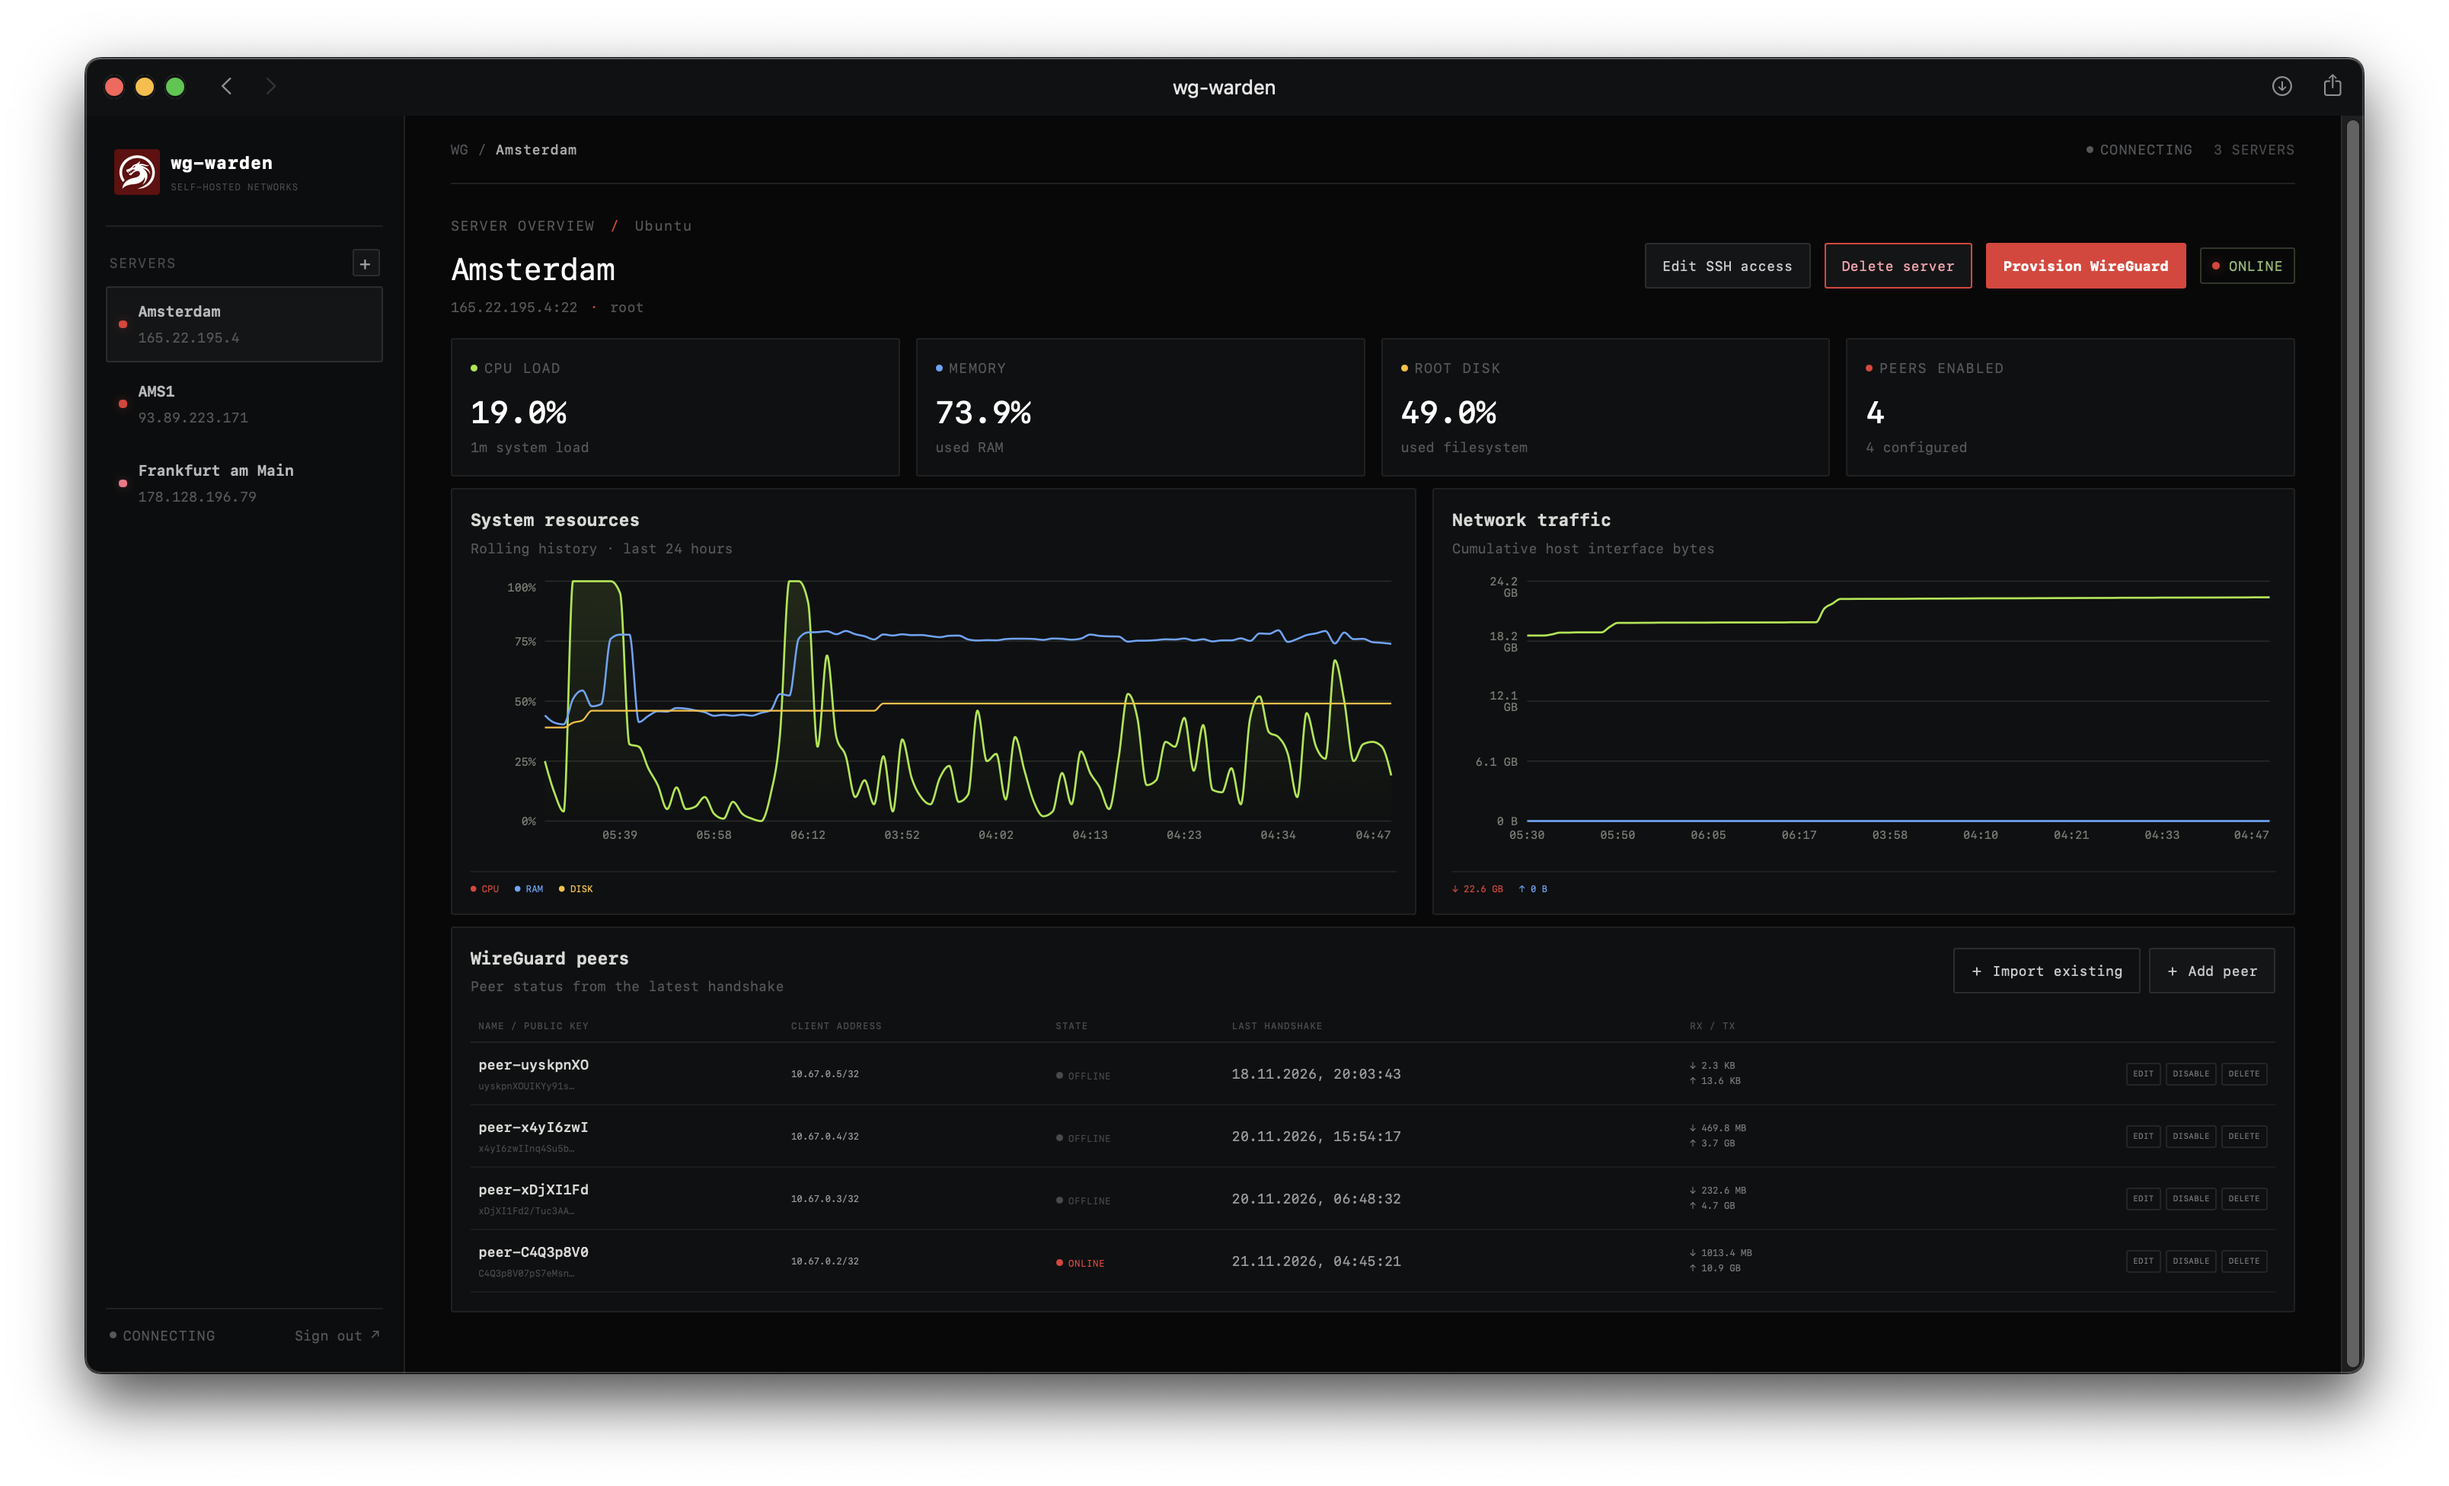
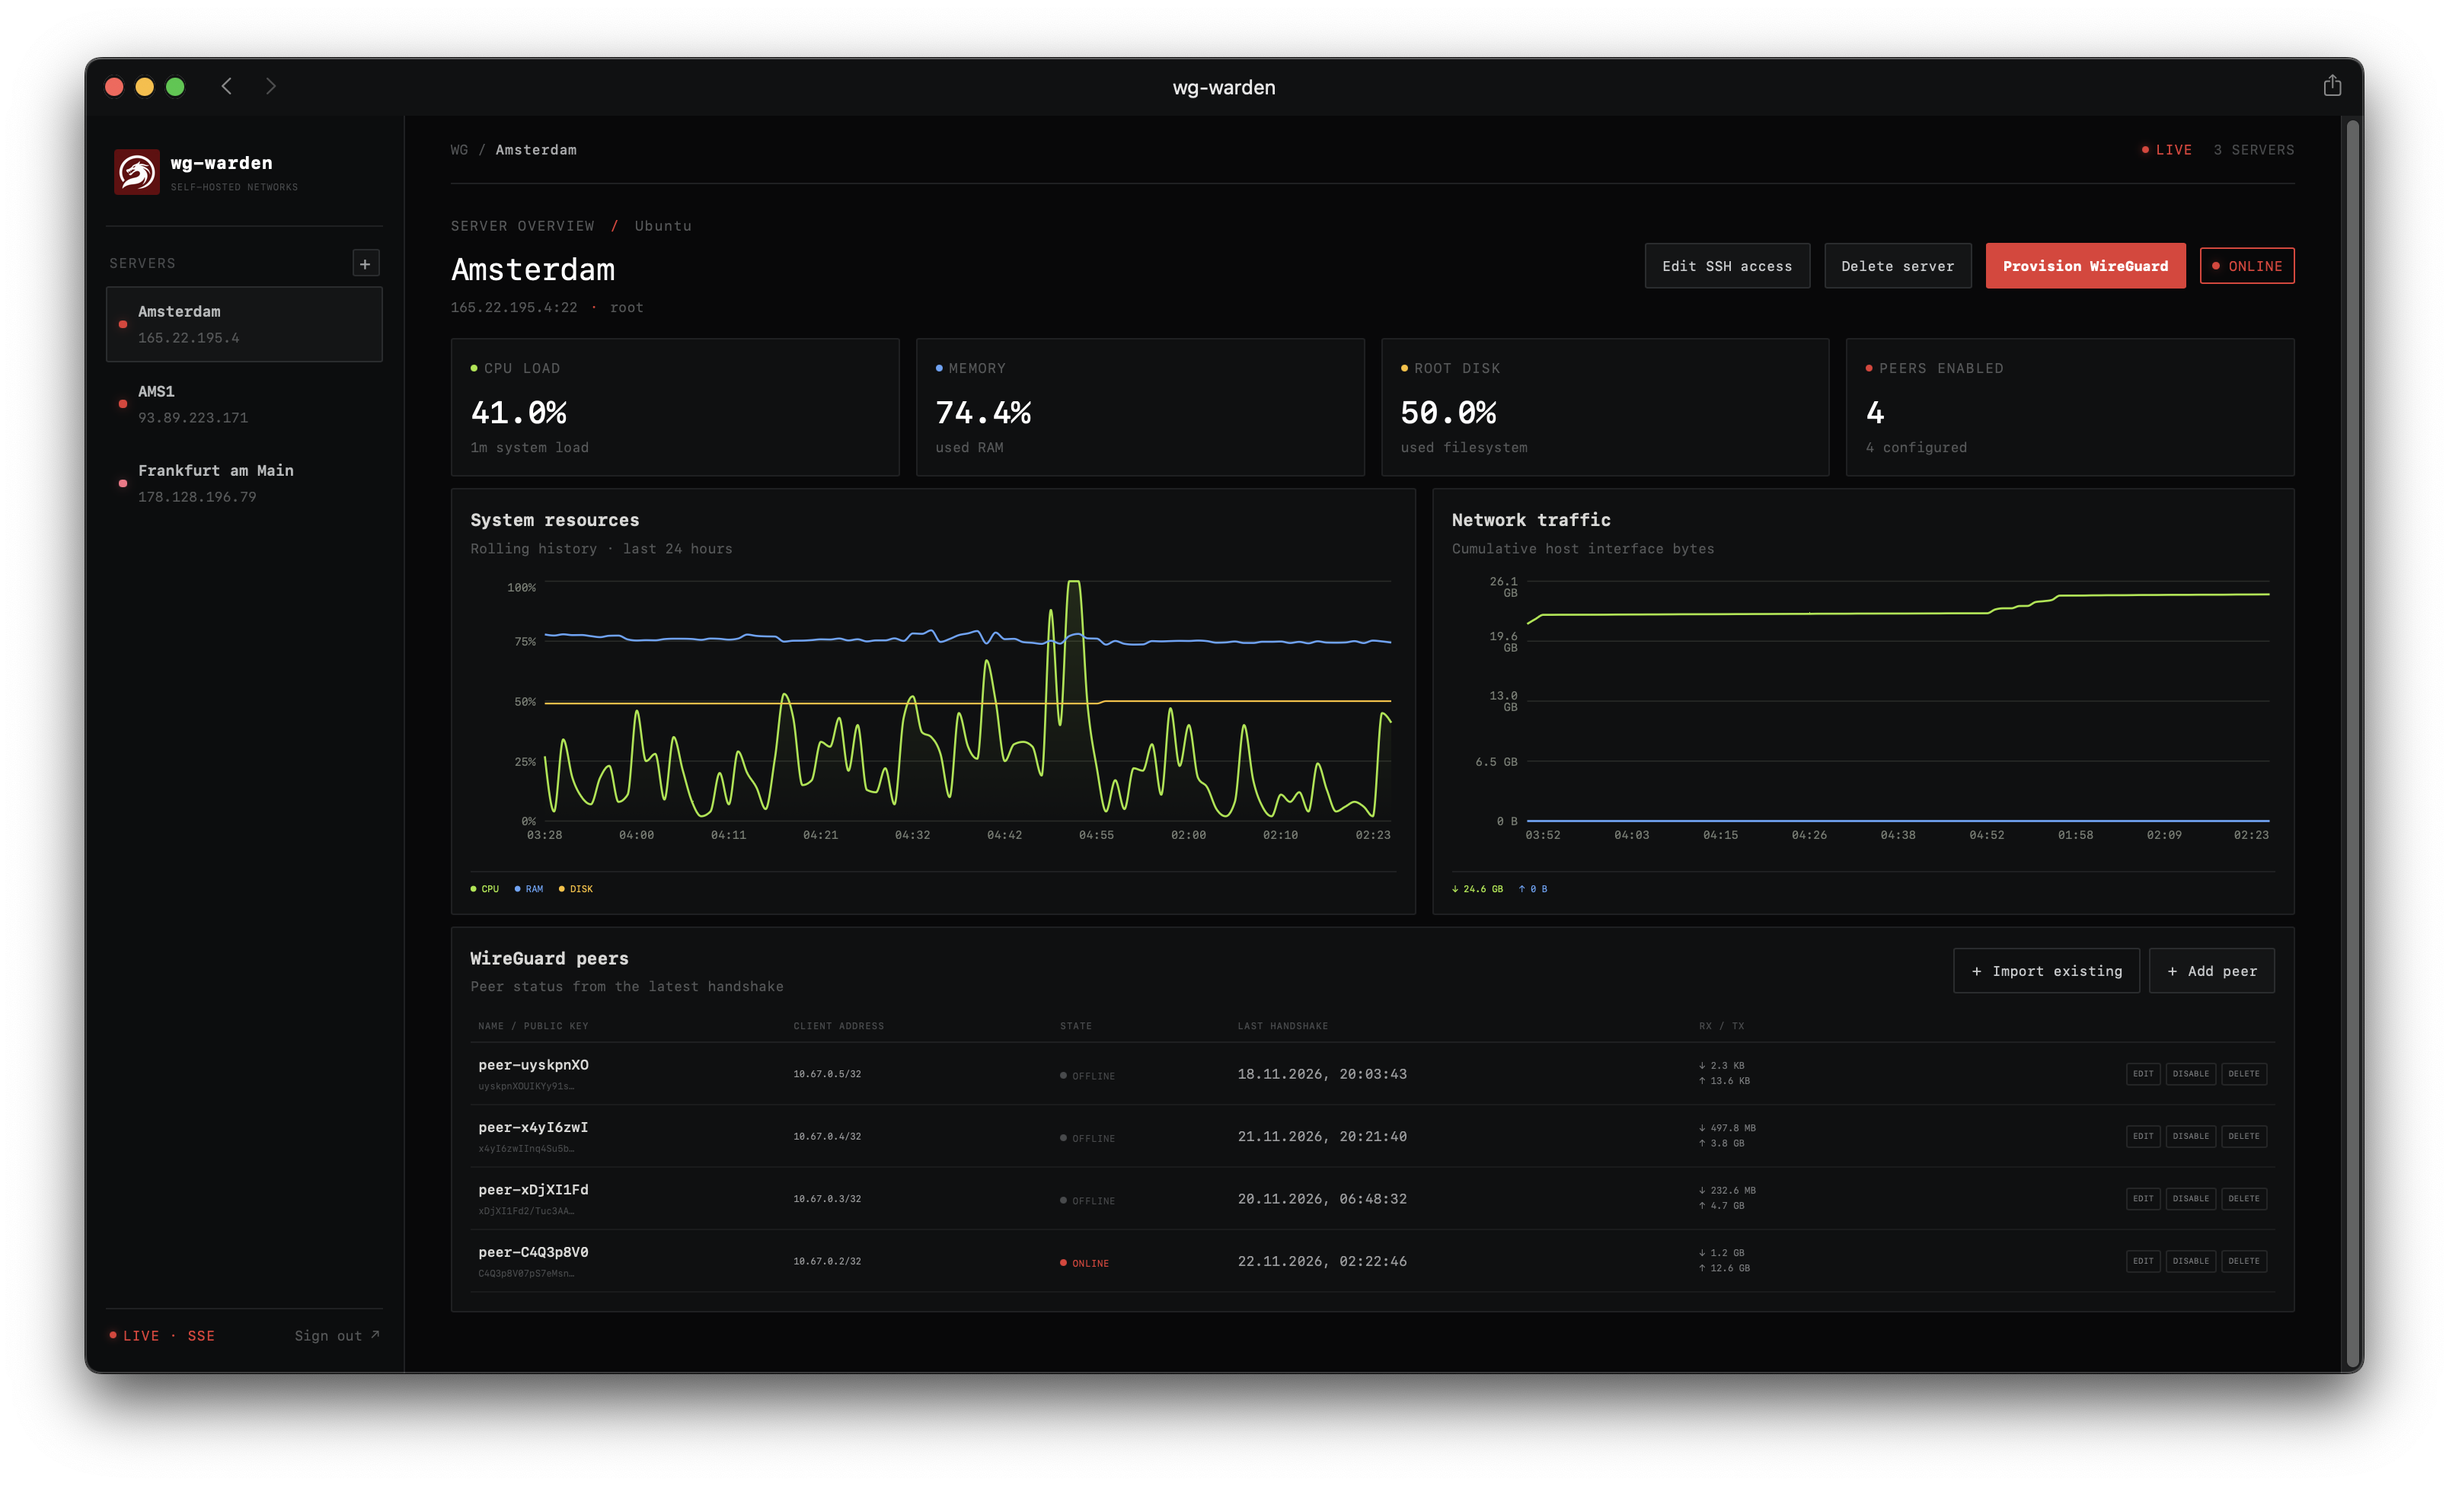
UI changes

diff --git a/frontend/src/style.css b/frontend/src/style.css
@@ -62,7 +62,7 @@ button{cursor:pointer}
 .hostline{color:#565859;font-size:10px;margin:0}
 .hostline span{color:#e53935;padding:0 3px}
 .status-badge{display:inline-flex;align-items:center;gap:8px;border:1px solid #2a2c2e;padding:6px 9px;color:#a8a9ab;border-radius:2px;font-size:9px;letter-spacing:.5px}
-.status-badge.online{border-color:#2d3828;color:#8db86e}
+.status-badge.online{border-color:#e53935;color:#e53935}
 .status-badge.error{border-color:#3d1a1a;color:#fb9aa8}
 
 /* ─── Stats panels ───────────────────────────────────────────────────────────── */
@@ -82,7 +82,7 @@ button{cursor:pointer}
 .panel-title p{font-size:9px;color:#565859;margin:5px 0 0}
 .chart{height:205px;margin-top:15px}
 .chart-legend{display:flex;gap:14px;border-top:1px solid #1f2022;margin-top:9px;padding-top:8px;color:#565859;font-size:8px}
-.chart-legend .green{color:#e53935}.chart-legend .blue{color:#60a5fa}.chart-legend .amber{color:#fbbf24}
+.chart-legend .green{color:#a3e635}.chart-legend .blue{color:#60a5fa}.chart-legend .amber{color:#fbbf24}
 .chart-state{height:205px;display:grid;place-items:center;text-align:center;padding:18px;color:#565859;font-size:10px;line-height:1.6}
 
 /* ─── Peer panel / table ─────────────────────────────────────────────────────── */
@@ -112,7 +112,7 @@ td small{font-size:8px;color:#484a4c;margin-top:4px}
 .actions{text-align:right;white-space:nowrap}
 .actions button{background:none;border:1px solid #242526;border-radius:2px;padding:4px 5px;margin-left:4px;color:#787a7c;font-size:7px;letter-spacing:.25px}
 .actions button:hover:not(:disabled){border-color:#e53935;color:#ffaaa0}
-.actions button.danger:hover:not(:disabled){border-color:#fb7185;color:#fb9aa8}
+.actions button.danger:hover:not(:disabled){border-color:#e53935;color:#ffaaa0}
 .actions button:disabled{opacity:.4;cursor:not-allowed}
 .row-error{color:#fb7185!important;font-size:9px!important;padding:5px 8px!important}
 .state-box{padding:23px 10px;text-align:center;color:#484a4c;font-size:10px}
@@ -162,7 +162,7 @@ td small{font-size:8px;color:#484a4c;margin-top:4px}
 .form-error{color:#ff9fac;background:#160e0e;border:1px solid #3d1a1a;padding:8px;font-size:9px}
 .dialog-actions{display:flex;justify-content:flex-end;gap:6px;margin-top:14px}
 .result-panel{display:flex;align-items:flex-start;gap:10px;padding:12px;margin:18px 0;border:1px solid #2a2c2e;background:#0c0d0e}
-.result-panel.online{border-color:#2d3828}
+.result-panel.online{border-color:#e53935}
 .result-panel.error{border-color:#3d1a1a}
 .result-panel div{flex:1}
 .result-panel strong{font-size:10px}
@@ -226,7 +226,7 @@ td small{font-size:8px;color:#484a4c;margin-top:4px}
 .button.primary:hover{background:#ff4d46;border-color:#ff4d46}
 @media(max-width:700px){.sidebar{width:100%;padding:10px 12px}.main{margin:0}.dialog{width:100%;max-height:calc(100dvh - 24px);padding:20px 16px}.field-row{grid-template-columns:minmax(0,1fr)}}
 
-:root{font-size:15px}.sidebar{width:280px;padding:25px 18px}.main{margin-left:280px;padding-left:40px;padding-right:40px}.brand strong{font-size:15px}.brand-glyph{width:40px;height:40px}.topbar{height:60px;font-size:12px}.server-heading h1{font-size:27px}.server-heading{align-items:center}.heading-actions{display:flex;align-items:center;gap:12px;flex-wrap:wrap}.button{font-size:11px;padding:10px 14px}.stats-grid,.charts-grid{gap:14px}.stat{padding:16px;min-height:108px}.stat>strong{font-size:27px}.stat .eyebrow,.stat>small,.panel-title p{font-size:10px}.panel-title h2{font-size:15px}.chart,.chart-state{height:250px}.button.danger{border-color:#e53935;color:#ff9fac}.button.danger:hover{background:#351e22;border-color:#ff4d46;color:#ff6b6b}.server-nav{padding:12px 10px}.server-nav strong{font-size:13px}@media(max-width:700px){.sidebar{width:100%;padding:10px 12px}.main{margin:0;padding:0 16px 36px}.server-heading{align-items:flex-start;gap:12px;flex-direction:column}.heading-actions{width:100%;justify-content:space-between}.topbar{height:48px}.chart,.chart-state{height:210px}}
+:root{font-size:15px}.sidebar{width:280px;padding:25px 18px}.main{margin-left:280px;padding-left:40px;padding-right:40px}.brand strong{font-size:15px}.brand-glyph{width:40px;height:40px}.topbar{height:60px;font-size:12px}.server-heading h1{font-size:27px}.server-heading{align-items:center}.heading-actions{display:flex;align-items:center;gap:12px;flex-wrap:wrap}.button{font-size:11px;padding:10px 14px}.stats-grid,.charts-grid{gap:14px}.stat{padding:16px;min-height:108px}.stat>strong{font-size:27px}.stat .eyebrow,.stat>small,.panel-title p{font-size:10px}.panel-title h2{font-size:15px}.chart,.chart-state{height:250px}.server-nav{padding:12px 10px}.server-nav strong{font-size:13px}@media(max-width:700px){.sidebar{width:100%;padding:10px 12px}.main{margin:0;padding:0 16px 36px}.server-heading{align-items:flex-start;gap:12px;flex-direction:column}.heading-actions{width:100%;justify-content:space-between}.topbar{height:48px}.chart,.chart-state{height:210px}}
 
 .checkbox-label{display:flex;align-items:center;gap:8px;font-size:10px;color:#787a7c}
 .checkbox-label input{width:auto;margin:0}
